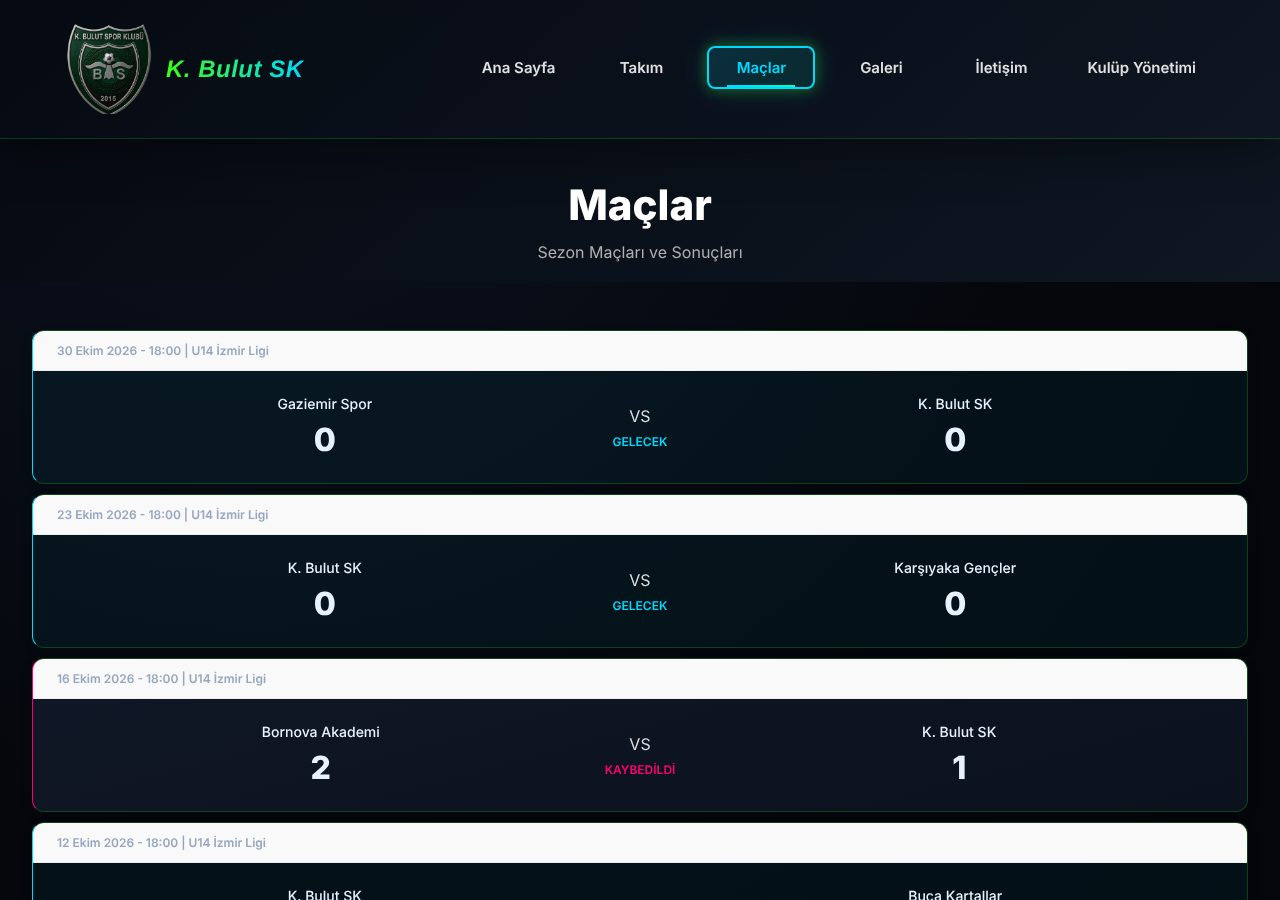
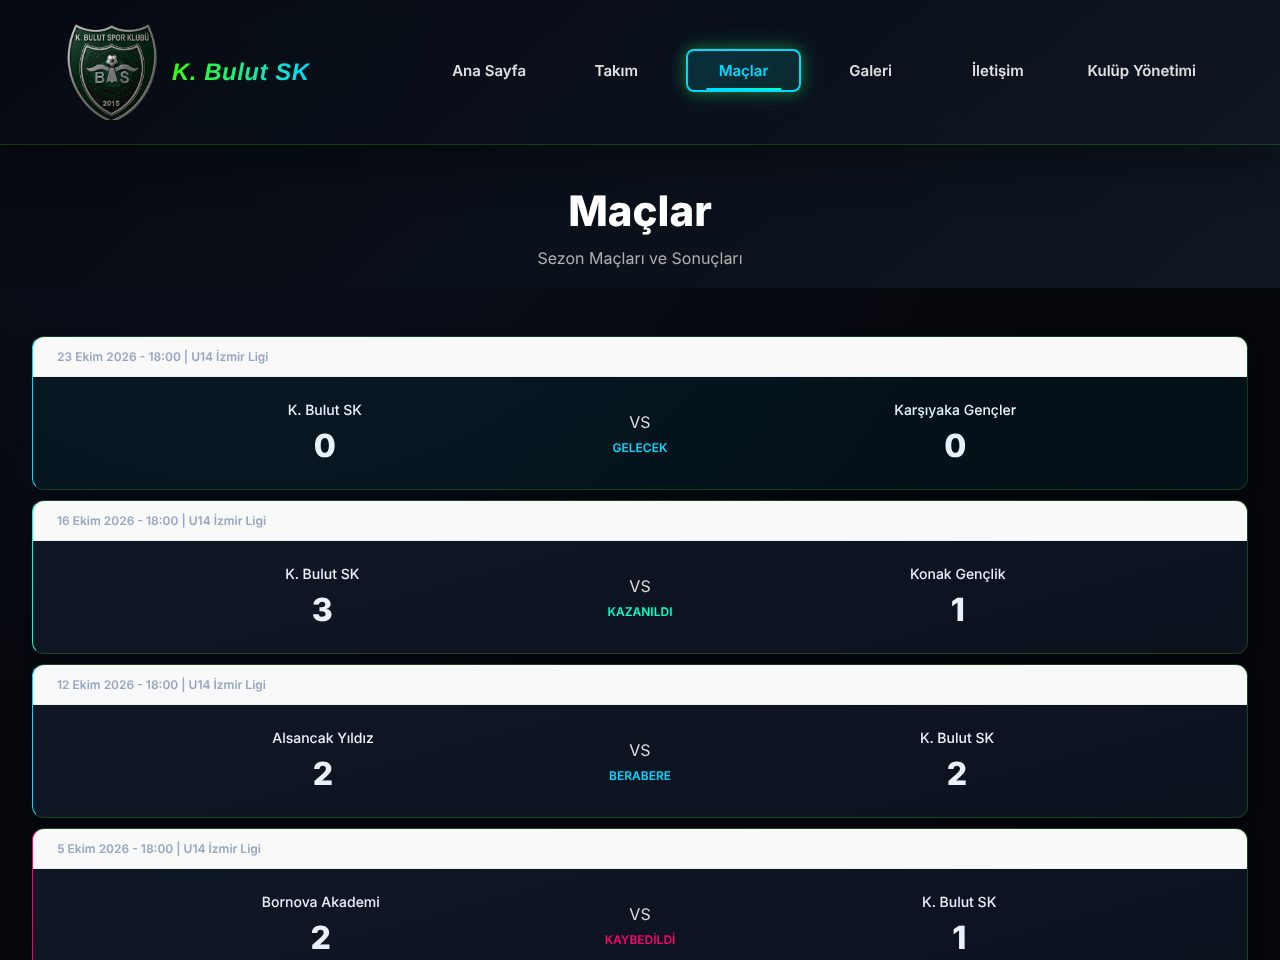
fix: kazanılan maçların sitede "Gelecek" görünmesini düzelt
Modelde galibiyetin değeri 'kazanildi', maçlar şablonu ise
'kazanıldı' ile karşılaştırıyordu. Panelden girilen her galibiyet
sitede "Gelecek" etiketi ve rengiyle görünüyordu. Şablon düzeltildi;
eski 'kazanıldı' kayıtlarını seçenek değerine çeviren veri
migration'ı (0003) ve iki test eklendi.

Claude-Session: https://claude.ai/code/session_017dyshpLuBKQQXxCftsfcvy

diff --git a/website/templates/maclar.html b/website/templates/maclar.html
@@ -15,7 +15,7 @@
             <div class="matches-container">
                 <div class="matches-lz">
                     {% for mac in tüm_maçlar %}
-                    <div class="match-card {% if mac.durum == 'kazanıldı' %}winner{% elif mac.durum == 'berabere' %}draw{% elif mac.durum == 'kaybedildi' %}loser{% else %}upcoming{% endif %}">
+                    <div class="match-card {% if mac.durum == 'kazanildi' %}winner{% elif mac.durum == 'berabere' %}draw{% elif mac.durum == 'kaybedildi' %}loser{% else %}upcoming{% endif %}">
                         <div class="match-date">{{ mac.tarih|date:"j E Y - H:i" }} | {{ mac.lig }}</div>
                         <div class="match-content">
                             <div class="team">
@@ -25,7 +25,7 @@
                             <div class="match-vs">
                                 <span class="vs-text">VS</span>
                                 <span class="match-status">
-                                    {% if mac.durum == 'kazanıldı' %}
+                                    {% if mac.durum == 'kazanildi' %}
                                         <span style="color: #00ffcc;">Kazanıldı</span>
                                     {% elif mac.durum == 'berabere' %}
                                         <span style="color: #00d9ff;">Berabere</span>

diff --git a/website/tests.py b/website/tests.py
@@ -1,7 +1,9 @@
 import re
+from importlib import import_module
 from datetime import timedelta
 from pathlib import Path
 
+from django.apps import apps as django_apps
 from django.conf import settings
 from django.contrib.staticfiles import finders
 from django.test import TestCase
@@ -140,3 +142,29 @@ class StatikDosyaTestleri(TestCase):
             if finders.find(yol) is None
         ]
         self.assertEqual(eksikler, [])
+
+
+class MacDurumuGorunumTestleri(TestCase):
+    """Panelden 'kazanildi' olarak girilen maç sitede 'Gelecek' değil 'Kazanıldı' görünmeli."""
+
+    def setUp(self):
+        self.takim = Takim.objects.create(ad="Test Takımı")
+
+    def mac(self, durum):
+        return Mac.objects.create(
+            takim=self.takim, ev_sahibi="Ev", misafir="Misafir", ev_sahibi_gol=3,
+            misafir_gol=1, tarih=timezone.now(), lig="Lig", durum=durum,
+        )
+
+    def test_kazanilan_mac_kazanildi_olarak_gorunur(self):
+        self.mac("kazanildi")
+        html = self.client.get(reverse("website:maclar")).content.decode()
+        self.assertIn("match-card winner", html)
+        self.assertNotIn("match-card upcoming", html)
+
+    def test_eski_kazanildi_kayitlari_migration_ile_duzelir(self):
+        migration = import_module("website.migrations.0003_kazanildi_degerini_duzelt")
+        eski = self.mac("kazanıldı")
+        migration.kazanildi_degerini_duzelt(django_apps, None)
+        eski.refresh_from_db()
+        self.assertEqual(eski.durum, "kazanildi")

diff --git a/website/migrations/0003_kazanildi_degerini_duzelt.py b/website/migrations/0003_kazanildi_degerini_duzelt.py
@@ -1,0 +1,22 @@
+from django.db import migrations
+
+
+def kazanildi_degerini_duzelt(apps, schema_editor):
+    """Bazı eski kayıtlarda durum 'kazanıldı' (ı ile) olarak duruyor.
+
+    Modeldeki seçenek değeri 'kazanildi'. Panelden girilen kayıtlar zaten
+    'kazanildi' olduğu için hepsini aynı değere getiriyoruz.
+    """
+    Mac = apps.get_model("website", "Mac")
+    Mac.objects.filter(durum="kazanıldı").update(durum="kazanildi")
+
+
+class Migration(migrations.Migration):
+
+    dependencies = [
+        ("website", "0002_remove_galeriöğesi_turu_alter_galeriöğesi_başlık_and_more"),
+    ]
+
+    operations = [
+        migrations.RunPython(kazanildi_degerini_duzelt, migrations.RunPython.noop),
+    ]

diff --git a/README.md b/README.md
@@ -20,7 +20,7 @@
 - **Kulüp sayfaları:** ana sayfa, takım, maçlar, galeri, iletişim ve kulüp yönetimi
 - **Yönetim paneli** (`/dashboard/`): haber, oyuncu, takım, maç, galeri ve yönetim kurulu kayıtlarını ekleme, düzenleme ve silme; giriş zorunlu
 - **Galeri:** Cloudinary üzerinde fotoğraf ve video; her biçimdeki YouTube linkinden (watch, youtu.be, embed, shorts, live) video kimliği çıkarma
-- **Maç istatistikleri:** galibiyet, beraberlik ve mağlubiyet sayıları sonuçlardan otomatik hesaplanır
+- **Maç sonuçları:** kazanılan, berabere biten, kaybedilen ve gelecek maçlar ayrı renklerle; istatistikler sonuçlardan hesaplanır
 - **JSON API:** `GET /api/takim/<id>/oyuncular/` takımın oyuncularını döndürür
 
 ## Teknolojiler
@@ -72,10 +72,10 @@ python manage.py runserver
 pytest
 ```
 
-17 test şunları kapsar:
+19 test şunları kapsar:
 
 - tüm sayfaların açılması
-- maç istatistiklerinin doğru sayılması
+- maç istatistikleri ve maç durumlarının doğru görünmesi
 - JSON API (200 / 404 / 405)
 - YouTube link ayrıştırma
 - panelin giriş zorunluluğu ve formdan kayıt ekleme
